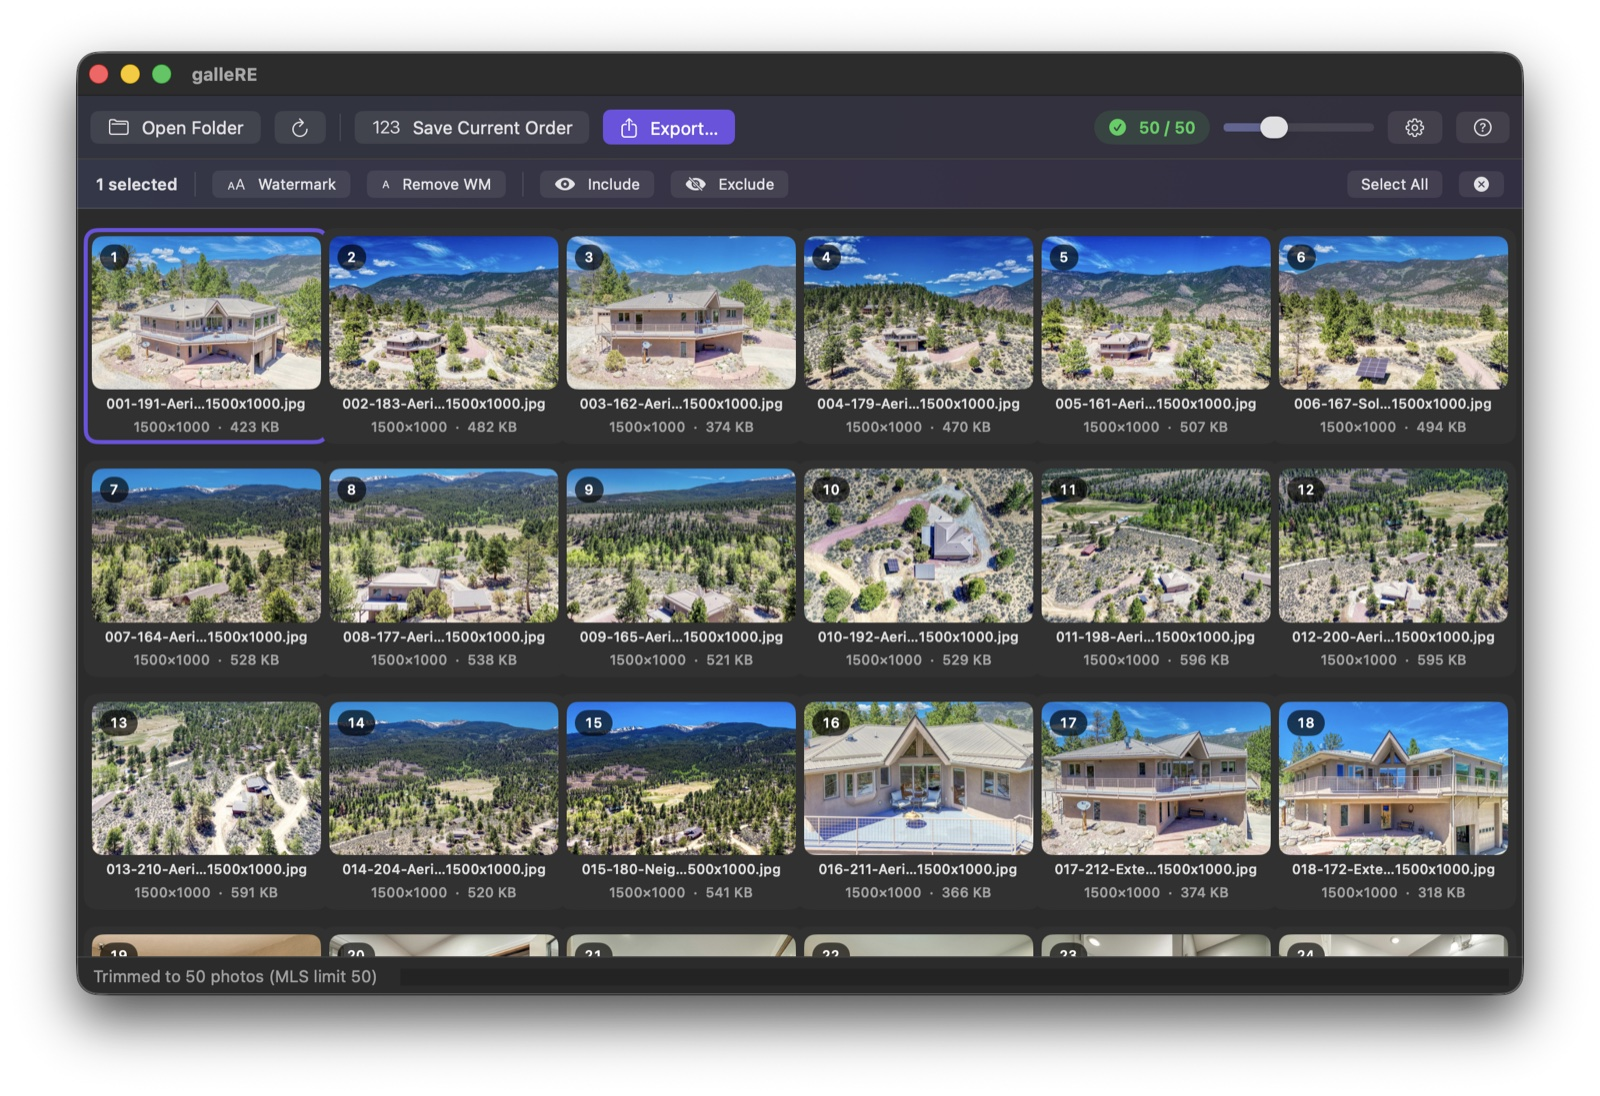
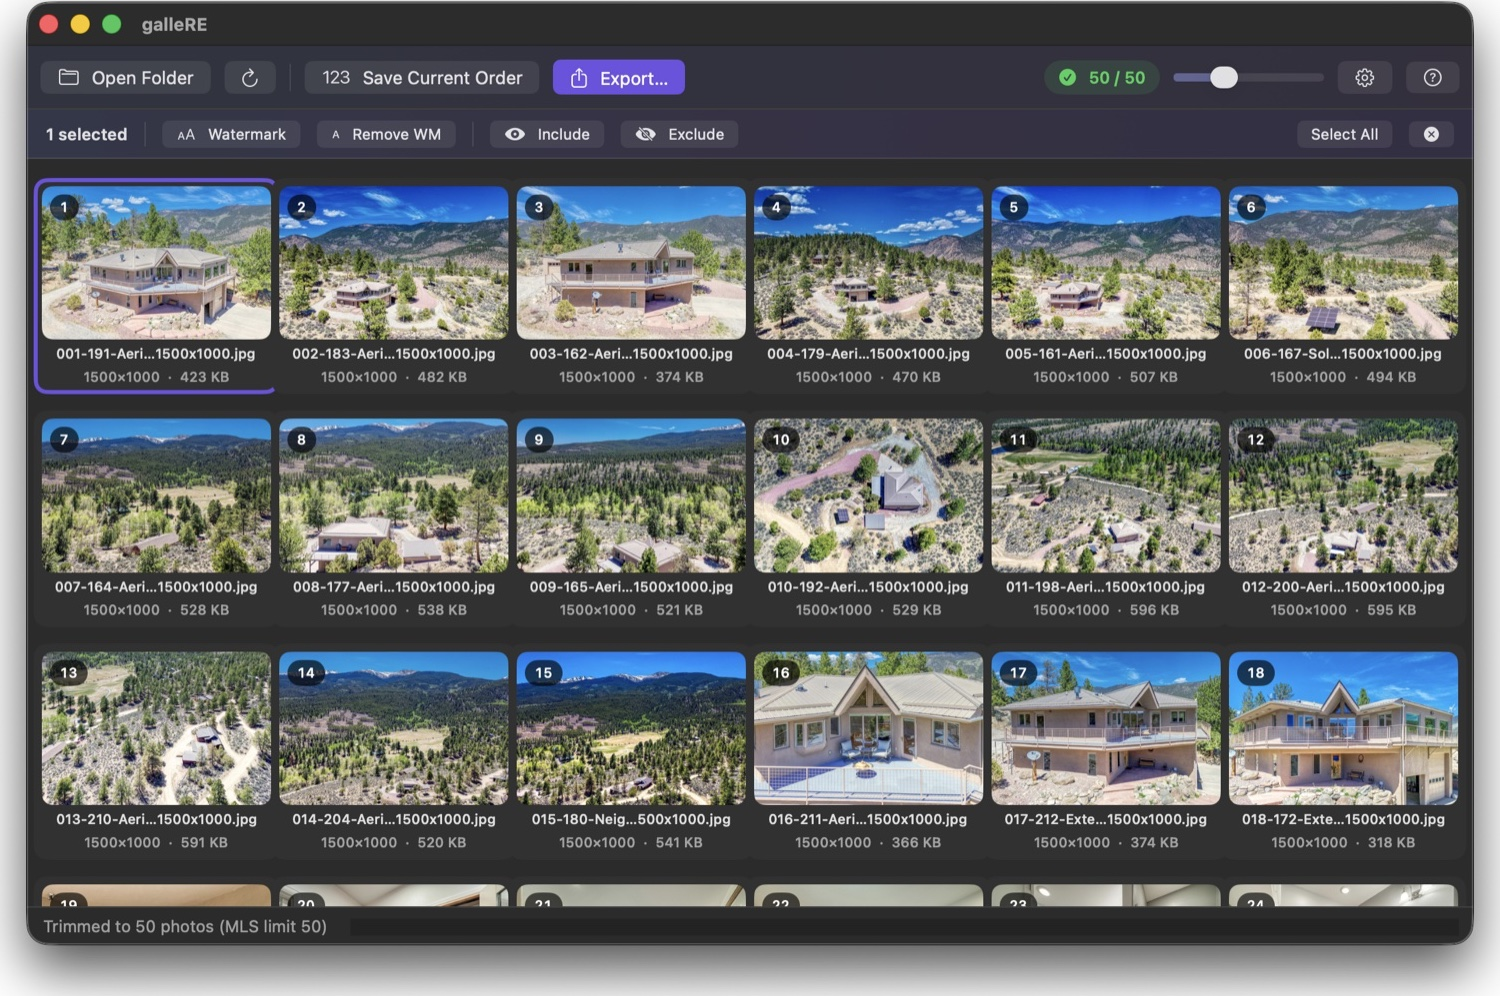
Crop white margin from hero screenshot; bump cache-bust to v3
Auto-trimmed the macOS window drop-shadow margin (turned white when
flattened to JPG) so the window fills the frame edge-to-edge.

diff --git a/docs/index.html b/docs/index.html
@@ -15,11 +15,11 @@
 <meta property="og:title" content="galleRE — MLS Photo Organizer for Realtors">
 <meta property="og:description" content="Organize, reorder, resize, convert, and watermark your real estate MLS photos — and keep them in the same order across every MLS. Free, native Mac app.">
 <meta property="og:url" content="https://gallere.app/">
-<meta property="og:image" content="https://gallere.app/screenshot.jpg?v=2">
+<meta property="og:image" content="https://gallere.app/screenshot.jpg?v=3">
 <meta name="twitter:card" content="summary_large_image">
 <meta name="twitter:title" content="galleRE — MLS Photo Organizer for Realtors">
 <meta name="twitter:description" content="Reorder, resize, convert, and watermark real estate MLS photos — keep them in the same order across every MLS. Free Mac app.">
-<meta name="twitter:image" content="https://gallere.app/screenshot.jpg?v=2">
+<meta name="twitter:image" content="https://gallere.app/screenshot.jpg?v=3">
 
 <!-- Structured data -->
 <script type="application/ld+json">
@@ -178,7 +178,7 @@
     </div>
     <p class="sub">Universal build — Apple Silicon &amp; Intel · macOS 14 (Sonoma) or later</p>
     <div class="shot-frame">
-      <img src="screenshot.jpg?v=2" alt="galleRE showing a grid of numbered real-estate photos with the MLS count pill and bulk-action bar">
+      <img src="screenshot.jpg?v=3" alt="galleRE showing a grid of numbered real-estate photos with the MLS count pill and bulk-action bar">
     </div>
   </div>
 </header>
